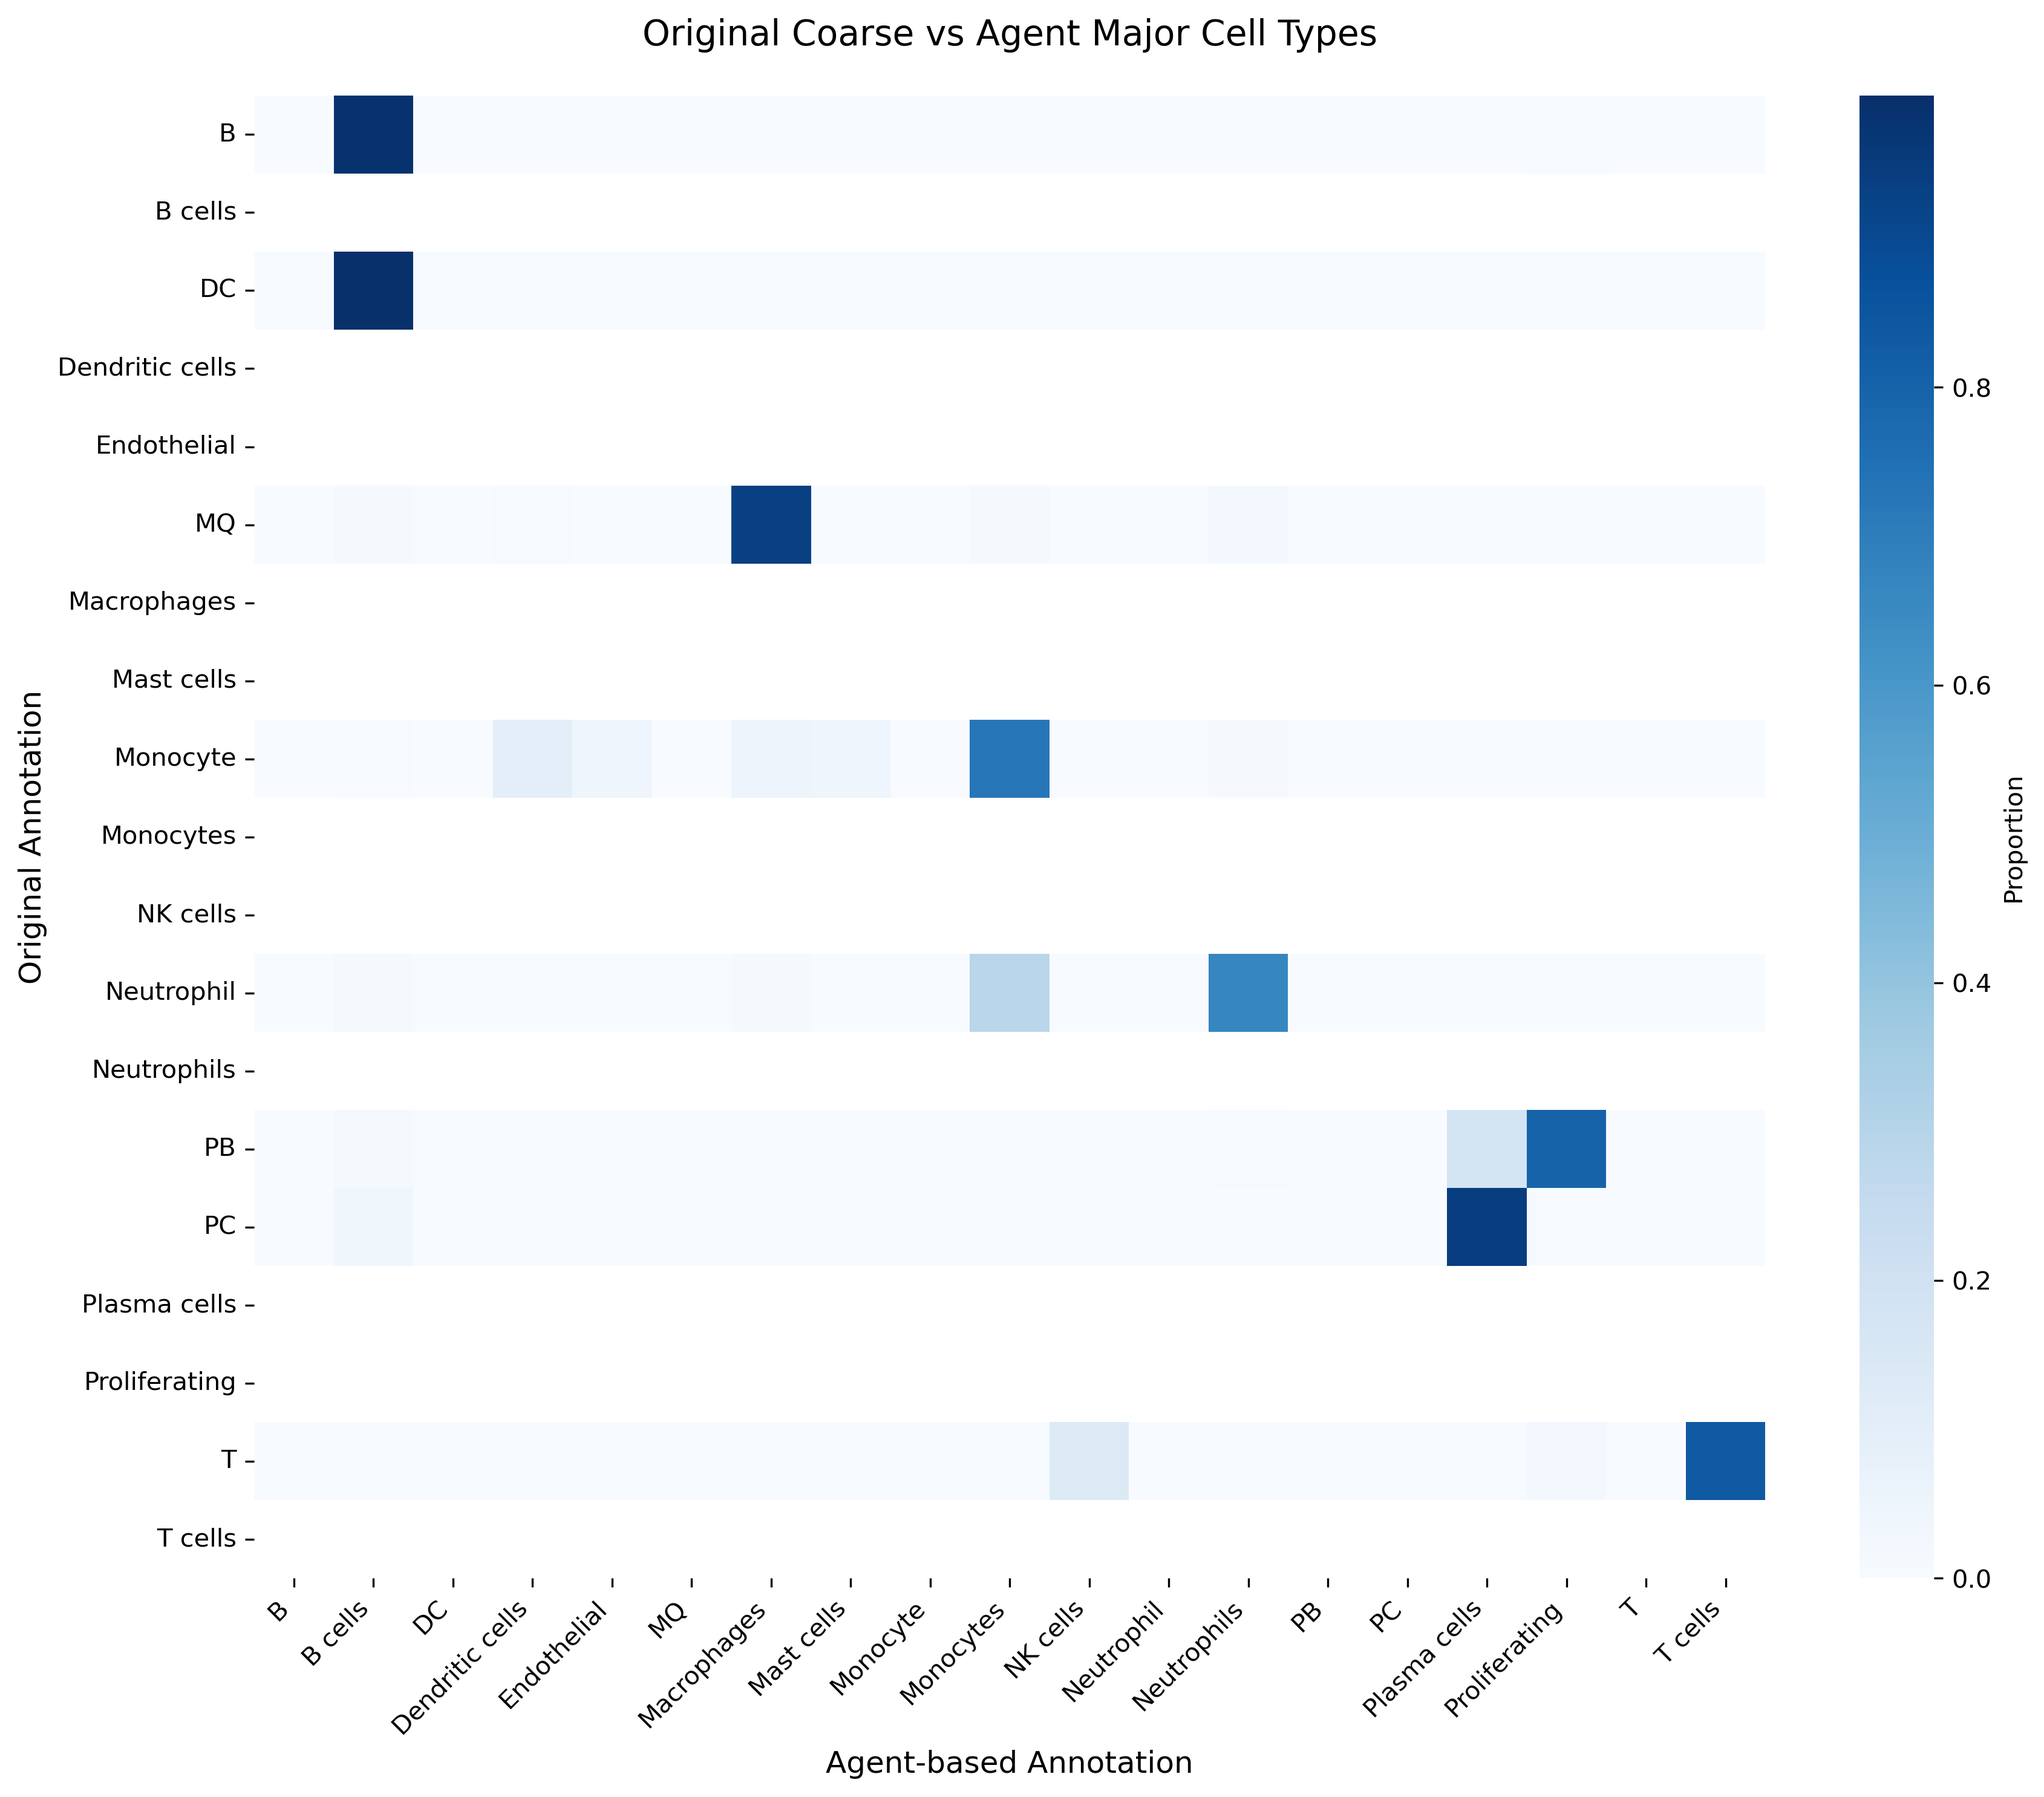
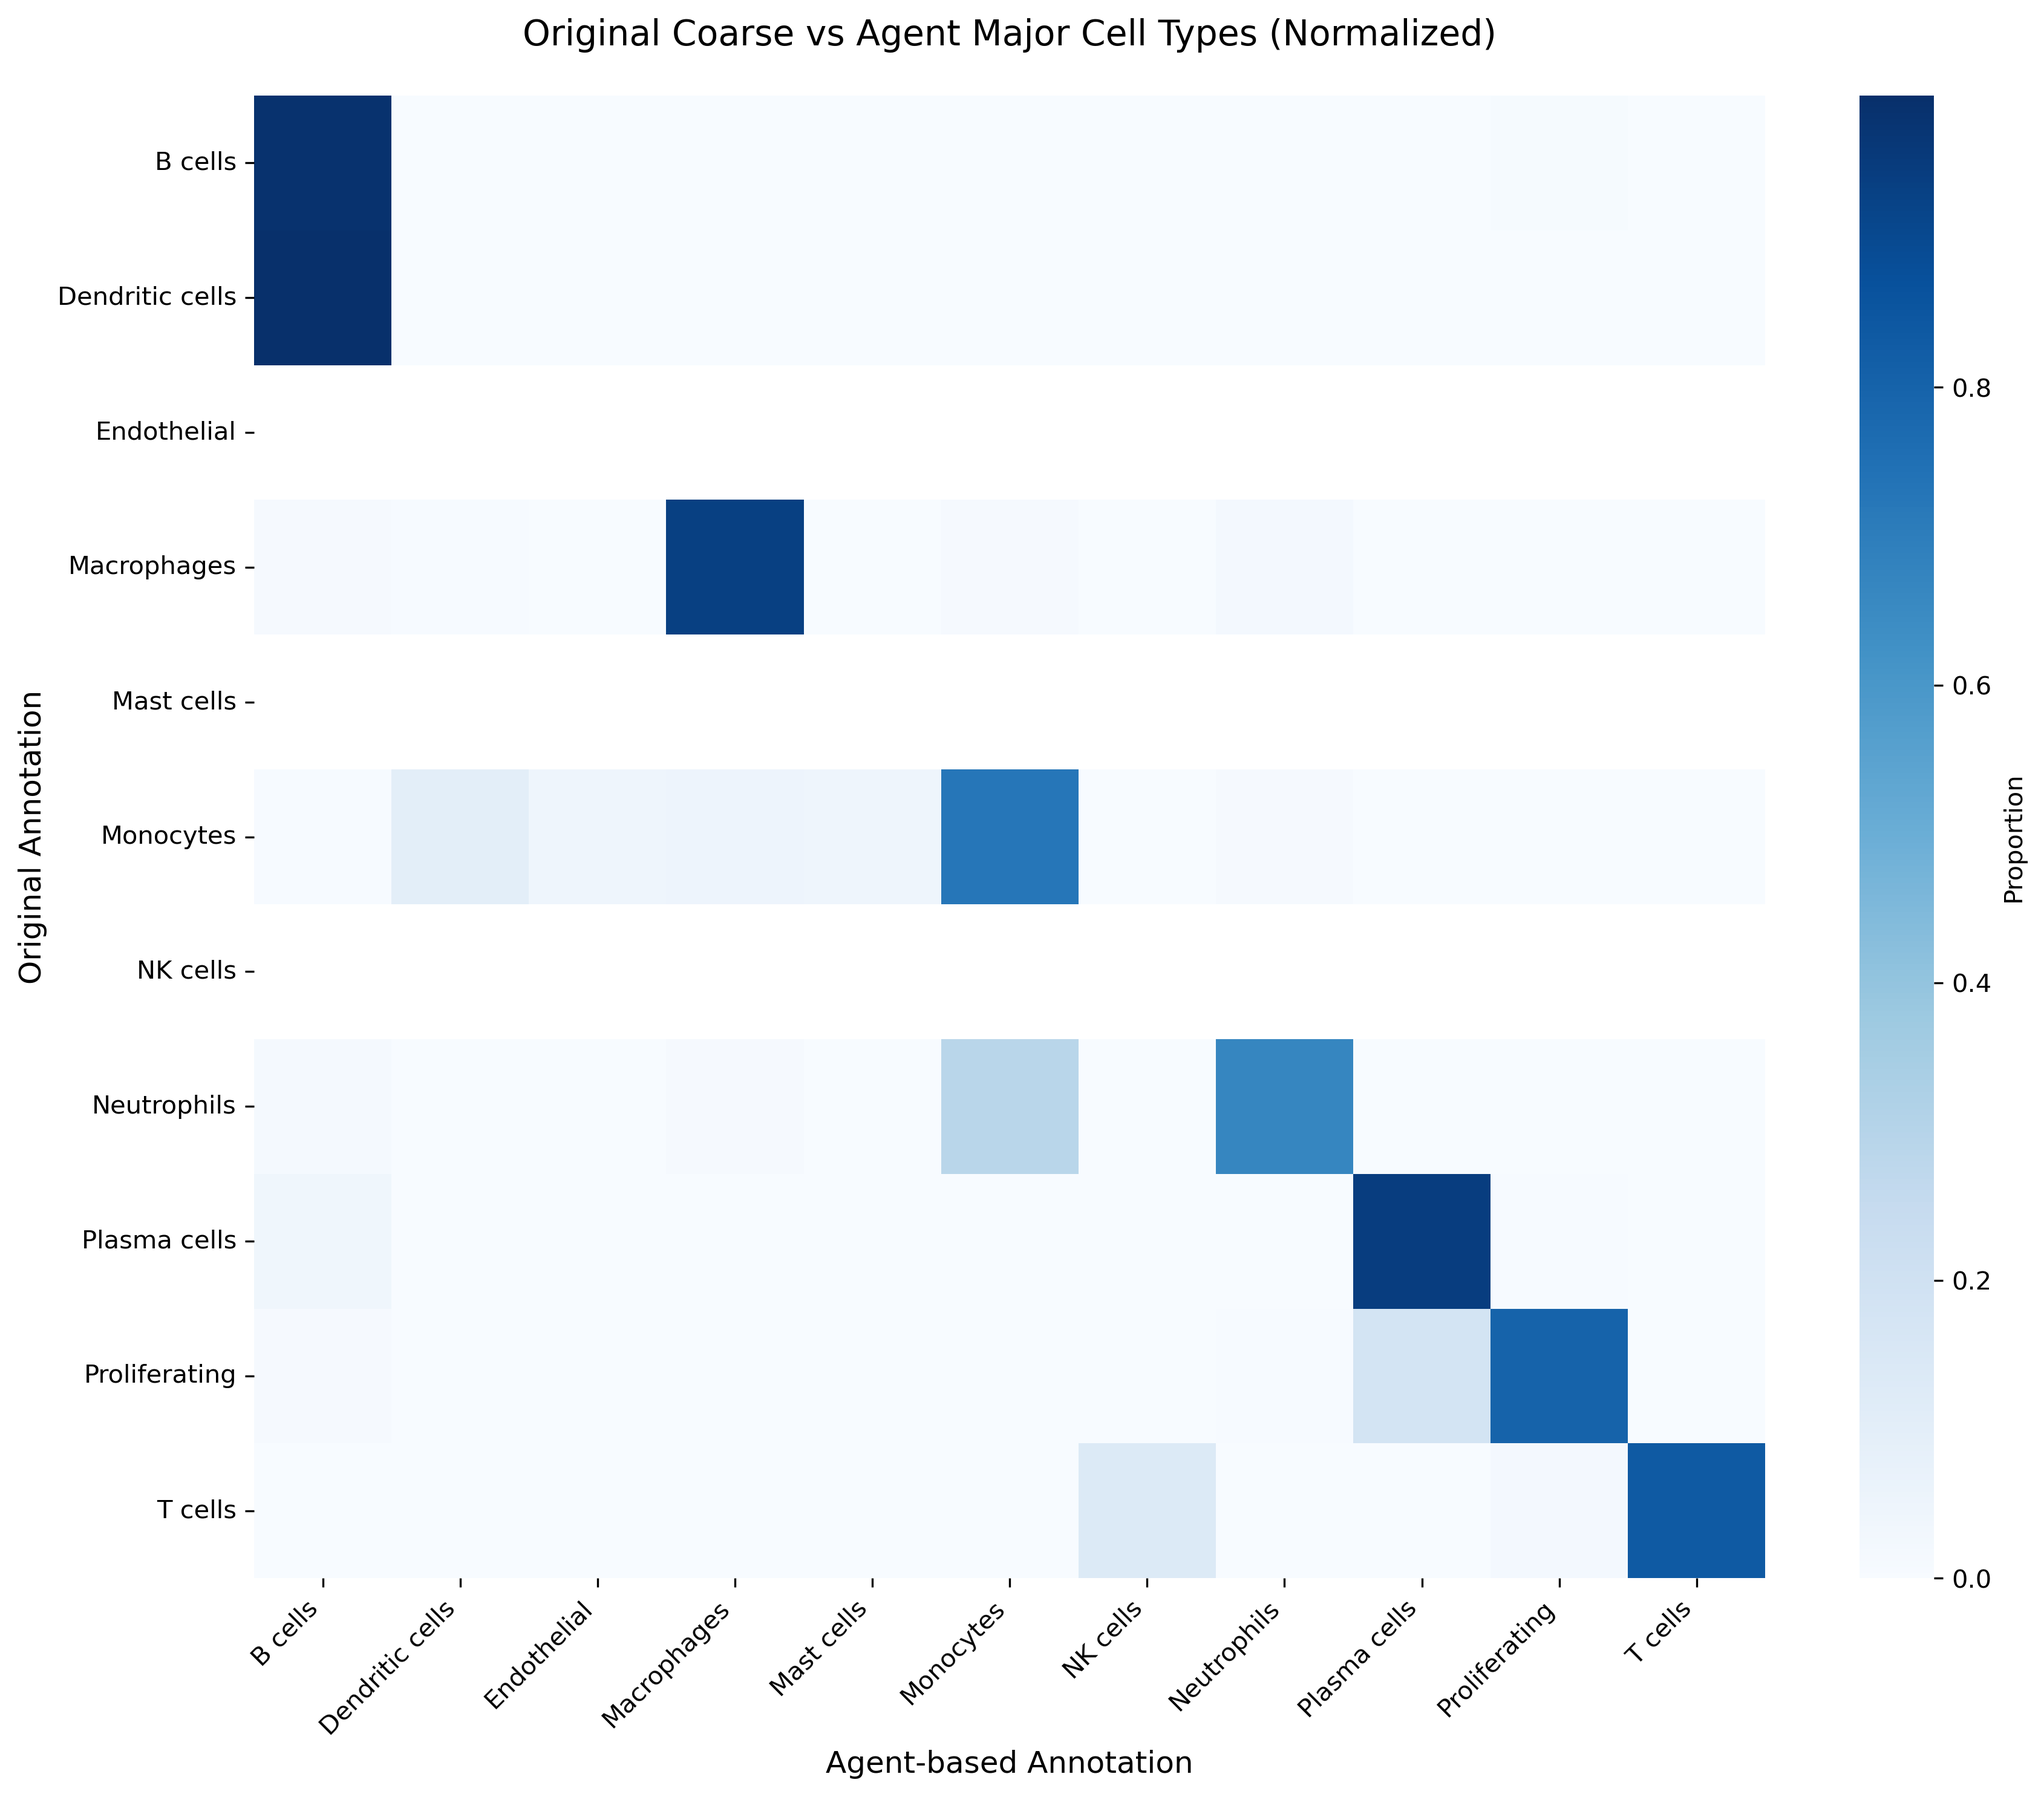
Fix cell type name normalization in evaluation
Normalize abbreviated cell type names (B, T, MQ, etc.) to full names
(B cells, T cells, Macrophages, etc.) for fair comparison between
original and agent-based annotations.

Changes:
- Add normalize_cell_type_names() function with comprehensive mapping
- Apply normalization to original_cl_ct column
- Update all comparisons to use normalized names
- Update confusion matrices and cluster analysis

Name mappings added:
- B → B cells
- T → T cells
- MQ → Macrophages
- Neutrophil → Neutrophils
- PC → Plasma cells
- Monocyte → Monocytes
- PB → Proliferating
- DC → Dendritic cells

This ensures accurate performance metrics by comparing equivalent
cell type labels between the two annotation methods.

diff --git a/evaluate_annotation_performance.py b/evaluate_annotation_performance.py
@@ -26,11 +26,51 @@ import seaborn as sns
 from pathlib import Path
 
 
+def normalize_cell_type_names(label):
+    """
+    Normalize cell type names to a consistent format.
+    Maps abbreviated forms to full names for fair comparison.
+    """
+    # Mapping dictionary for original abbreviated names
+    name_mapping = {
+        'B': 'B cells',
+        'T': 'T cells',
+        'MQ': 'Macrophages',
+        'Neutrophil': 'Neutrophils',
+        'PC': 'Plasma cells',
+        'NK': 'NK cells',
+        'DC': 'Dendritic cells',
+        'Mono': 'Monocytes',
+        'Monocyte': 'Monocytes',  # Alternative form
+        'Mast': 'Mast cells',
+        'Endo': 'Endothelial',
+        'PB': 'Proliferating',  # Plasmablasts (proliferating B cells)
+    }
+
+    # Apply mapping if found
+    if label in name_mapping:
+        return name_mapping[label]
+
+    # Return as-is if no mapping needed
+    return label
+
+
 def load_annotations(csv_path):
     """Load cell type annotations."""
     df = pd.read_csv(csv_path, index_col=0)
     print(f"Loaded {len(df):,} cells")
     print(f"Columns: {df.columns.tolist()}")
+
+    # Normalize original annotation names
+    print("\nNormalizing cell type names...")
+    df['original_cl_ct_normalized'] = df['original_cl_ct'].apply(normalize_cell_type_names)
+
+    # Check mapping results
+    original_types = df['original_cl_ct'].unique()
+    normalized_types = df['original_cl_ct_normalized'].unique()
+    print(f"Original types ({len(original_types)}): {sorted(original_types)}")
+    print(f"Normalized types ({len(normalized_types)}): {sorted(normalized_types)}")
+
     return df
 
 
@@ -69,14 +109,14 @@ def cluster_level_agreement(df, cluster_col='louvain'):
         cluster_cells = df[df[cluster_col] == cluster]
         n_cells = len(cluster_cells)
 
-        # Get most common cell type for each annotation method
-        original_coarse = cluster_cells['original_cl_ct'].mode()[0] if len(cluster_cells['original_cl_ct'].mode()) > 0 else 'NA'
+        # Get most common cell type for each annotation method (using normalized names)
+        original_coarse = cluster_cells['original_cl_ct_normalized'].mode()[0] if len(cluster_cells['original_cl_ct_normalized'].mode()) > 0 else 'NA'
         original_fine = cluster_cells['original_sbcl_ct'].mode()[0] if len(cluster_cells['original_sbcl_ct'].mode()) > 0 else 'NA'
         agent_major = cluster_cells['major_cell_type'].mode()[0] if len(cluster_cells['major_cell_type'].mode()) > 0 else 'NA'
         agent_refined = cluster_cells['cell_type_refined'].mode()[0] if len(cluster_cells['cell_type_refined'].mode()) > 0 else 'NA'
 
-        # Calculate purity for each annotation
-        original_coarse_purity = (cluster_cells['original_cl_ct'] == original_coarse).sum() / n_cells
+        # Calculate purity for each annotation (using normalized names)
+        original_coarse_purity = (cluster_cells['original_cl_ct_normalized'] == original_coarse).sum() / n_cells
         original_fine_purity = (cluster_cells['original_sbcl_ct'] == original_fine).sum() / n_cells
         agent_major_purity = (cluster_cells['major_cell_type'] == agent_major).sum() / n_cells
         agent_refined_purity = (cluster_cells['cell_type_refined'] == agent_refined).sum() / n_cells
@@ -184,12 +224,12 @@ def main():
 
     # Calculate metrics
     print("\n2. Calculating performance metrics...")
-    print("\nComparing annotation levels:")
+    print("\nComparing annotation levels (with normalized names):")
 
     comparisons = [
-        ('original_cl_ct', 'major_cell_type', 'Original Coarse vs Agent Major'),
+        ('original_cl_ct_normalized', 'major_cell_type', 'Original Coarse vs Agent Major'),
         ('original_sbcl_ct', 'cell_type_refined', 'Original Fine vs Agent Refined'),
-        ('original_cl_ct', 'cell_type_refined', 'Original Coarse vs Agent Refined'),
+        ('original_cl_ct_normalized', 'cell_type_refined', 'Original Coarse vs Agent Refined'),
         ('original_sbcl_ct', 'major_cell_type', 'Original Fine vs Agent Major'),
     ]
 
@@ -229,9 +269,9 @@ def main():
     # Plot confusion matrices
     print("\n4. Generating confusion matrices...")
     plot_confusion_matrix(
-        df['original_cl_ct'],
+        df['original_cl_ct_normalized'],
         df['major_cell_type'],
-        'Original Coarse vs Agent Major Cell Types',
+        'Original Coarse vs Agent Major Cell Types (Normalized)',
         output_dir / "confusion_matrix_coarse.png"
     )
 
@@ -258,7 +298,7 @@ def main():
 
         f.write("## Annotation Methods Compared\n\n")
         f.write("**Original Method:**\n")
-        f.write(f"- Coarse level: {df['original_cl_ct'].nunique()} cell types\n")
+        f.write(f"- Coarse level: {df['original_cl_ct_normalized'].nunique()} cell types (normalized from {df['original_cl_ct'].nunique()} abbreviated forms)\n")
         f.write(f"- Fine level: {df['original_sbcl_ct'].nunique()} cell types\n\n")
 
         f.write("**Agent-based Method (scAnnoist):**\n")

diff --git a/examples/spleen_analysis_results/performance_evaluation/EVALUATION_REPORT.md b/examples/spleen_analysis_results/performance_evaluation/EVALUATION_REPORT.md
@@ -8,7 +8,7 @@
 ## Annotation Methods Compared
 
 **Original Method:**
-- Coarse level: 8 cell types
+- Coarse level: 8 cell types (normalized from 8 abbreviated forms)
 - Fine level: 41 cell types
 
 **Agent-based Method (scAnnoist):**
@@ -49,16 +49,16 @@
 
 | Cluster | N_cells | Original_Coarse | Agent_Major | Original_Coarse_Purity | Agent_Major_Purity |
 | --- | --- | --- | --- | --- | --- |
-| 0 | 54816 | B | B cells | 0.9261711908931699 | 1.0 |
-| 1 | 48815 | MQ | Macrophages | 0.9991191232203216 | 1.0 |
-| 2 | 45294 | MQ | Macrophages | 0.9825363182761514 | 1.0 |
-| 3 | 26236 | T | T cells | 0.9993520353712456 | 1.0 |
-| 4 | 25025 | MQ | Macrophages | 0.998001998001998 | 1.0 |
-| 5 | 25015 | B | B cells | 0.998360983409954 | 1.0 |
-| 6 | 24661 | MQ | Macrophages | 0.9545841612262277 | 1.0 |
-| 7 | 22289 | Neutrophil | Neutrophils | 0.9380860514154964 | 1.0 |
-| 8 | 19308 | T | T cells | 0.9804226227470478 | 1.0 |
-| 9 | 19187 | Neutrophil | Monocytes | 0.9163496117162663 | 1.0 |
+| 0 | 54816 | B cells | B cells | 0.9261711908931699 | 1.0 |
+| 1 | 48815 | Macrophages | Macrophages | 0.9991191232203216 | 1.0 |
+| 2 | 45294 | Macrophages | Macrophages | 0.9825363182761514 | 1.0 |
+| 3 | 26236 | T cells | T cells | 0.9993520353712456 | 1.0 |
+| 4 | 25025 | Macrophages | Macrophages | 0.998001998001998 | 1.0 |
+| 5 | 25015 | B cells | B cells | 0.998360983409954 | 1.0 |
+| 6 | 24661 | Macrophages | Macrophages | 0.9545841612262277 | 1.0 |
+| 7 | 22289 | Neutrophils | Neutrophils | 0.9380860514154964 | 1.0 |
+| 8 | 19308 | T cells | T cells | 0.9804226227470478 | 1.0 |
+| 9 | 19187 | Neutrophils | Monocytes | 0.9163496117162663 | 1.0 |
 
 ## Files Generated
 
